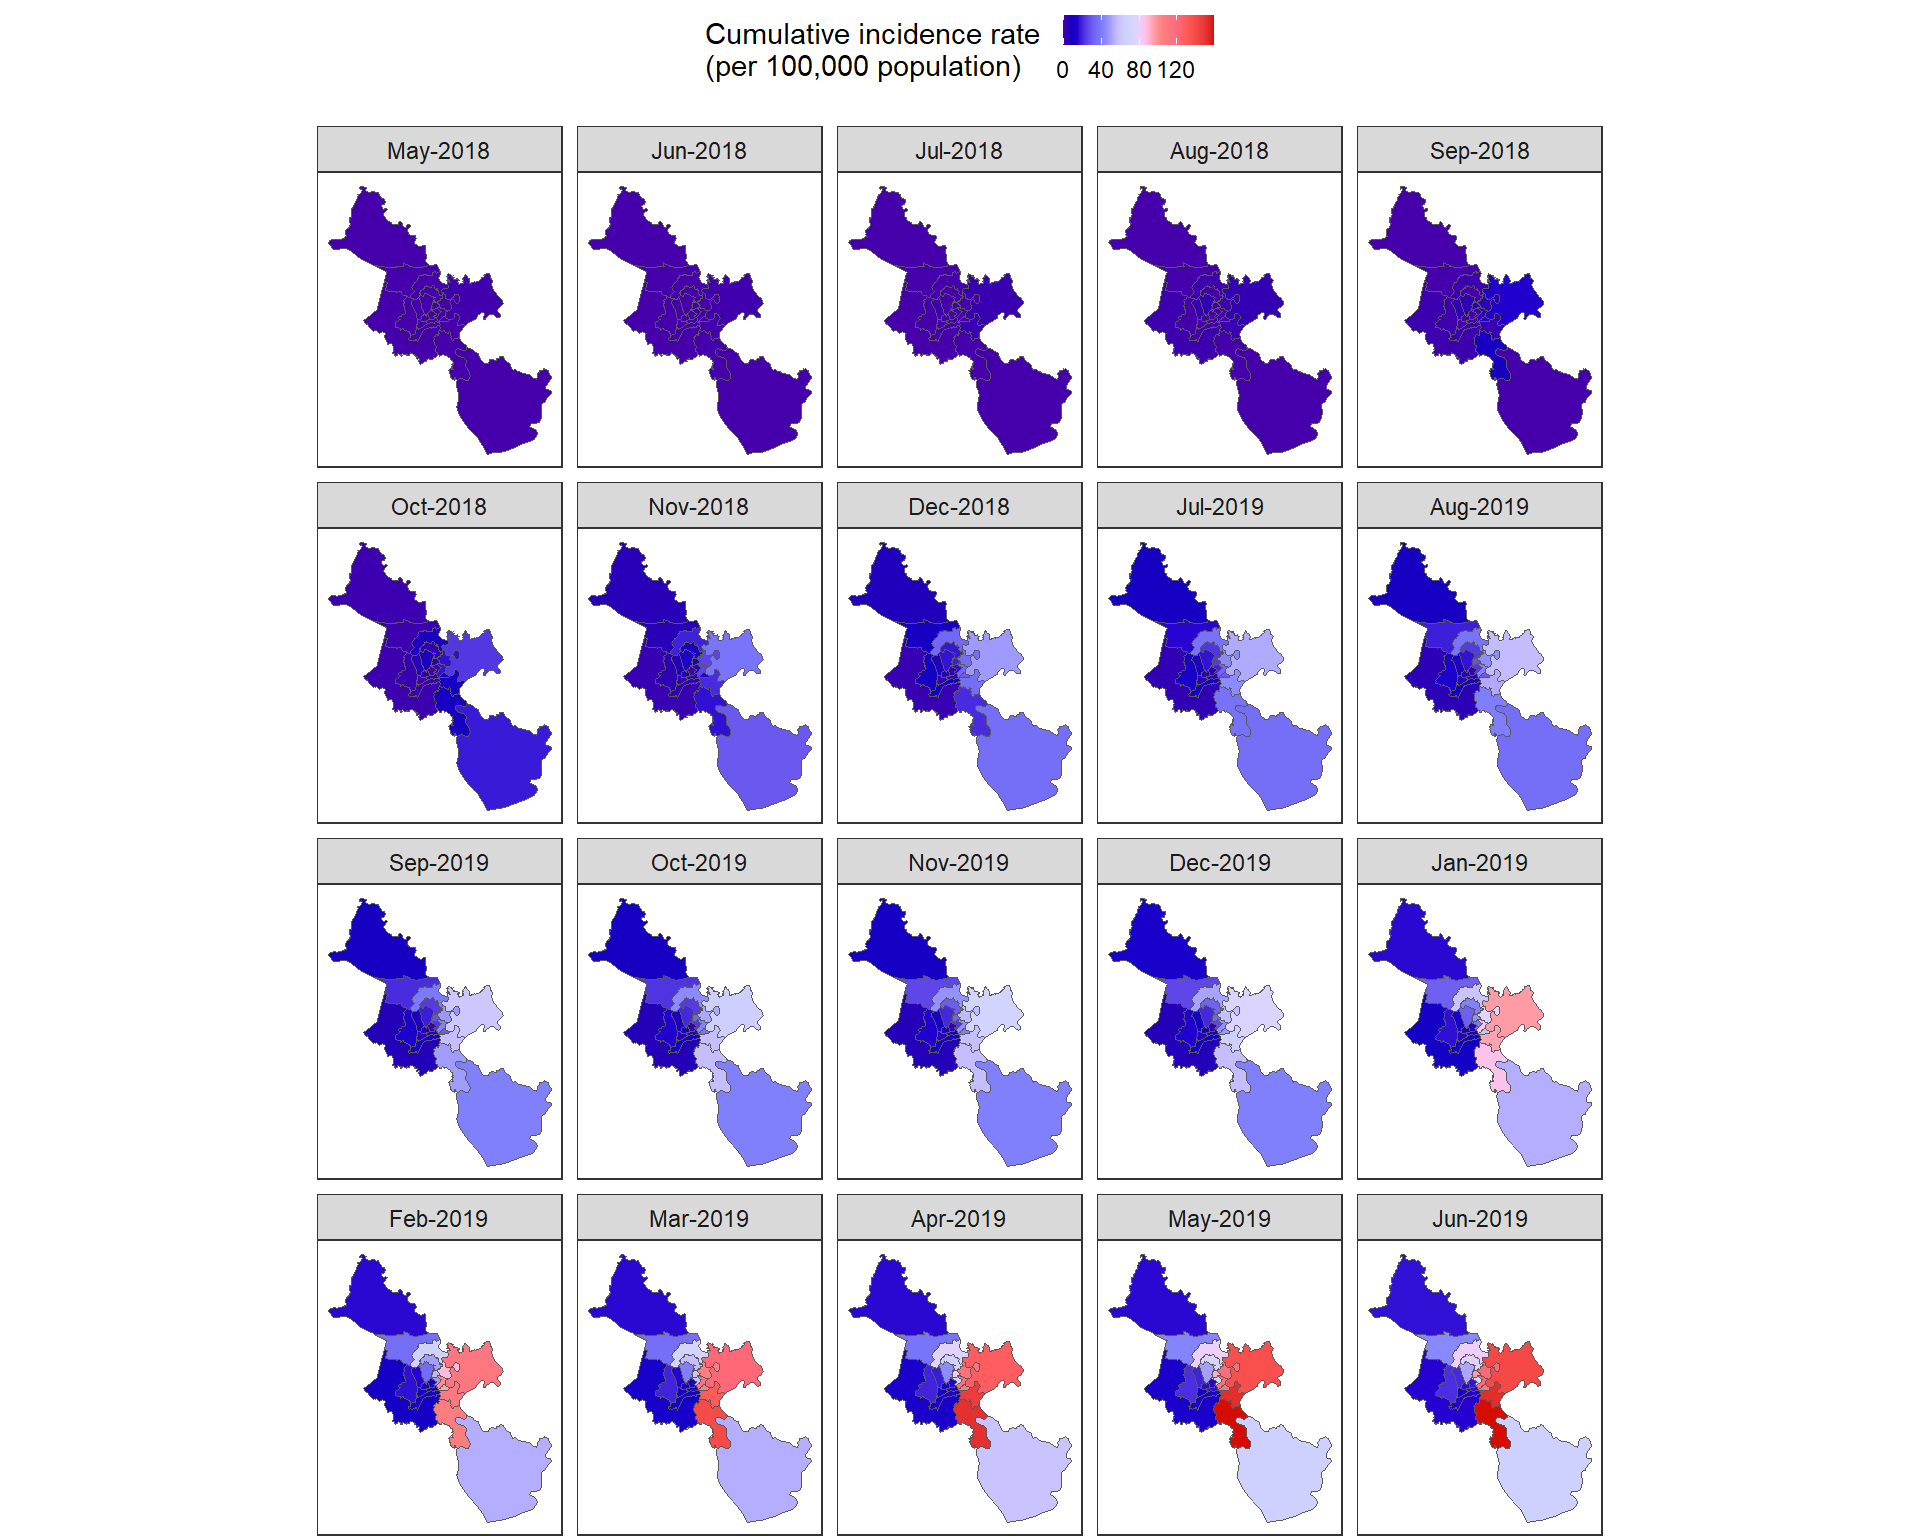
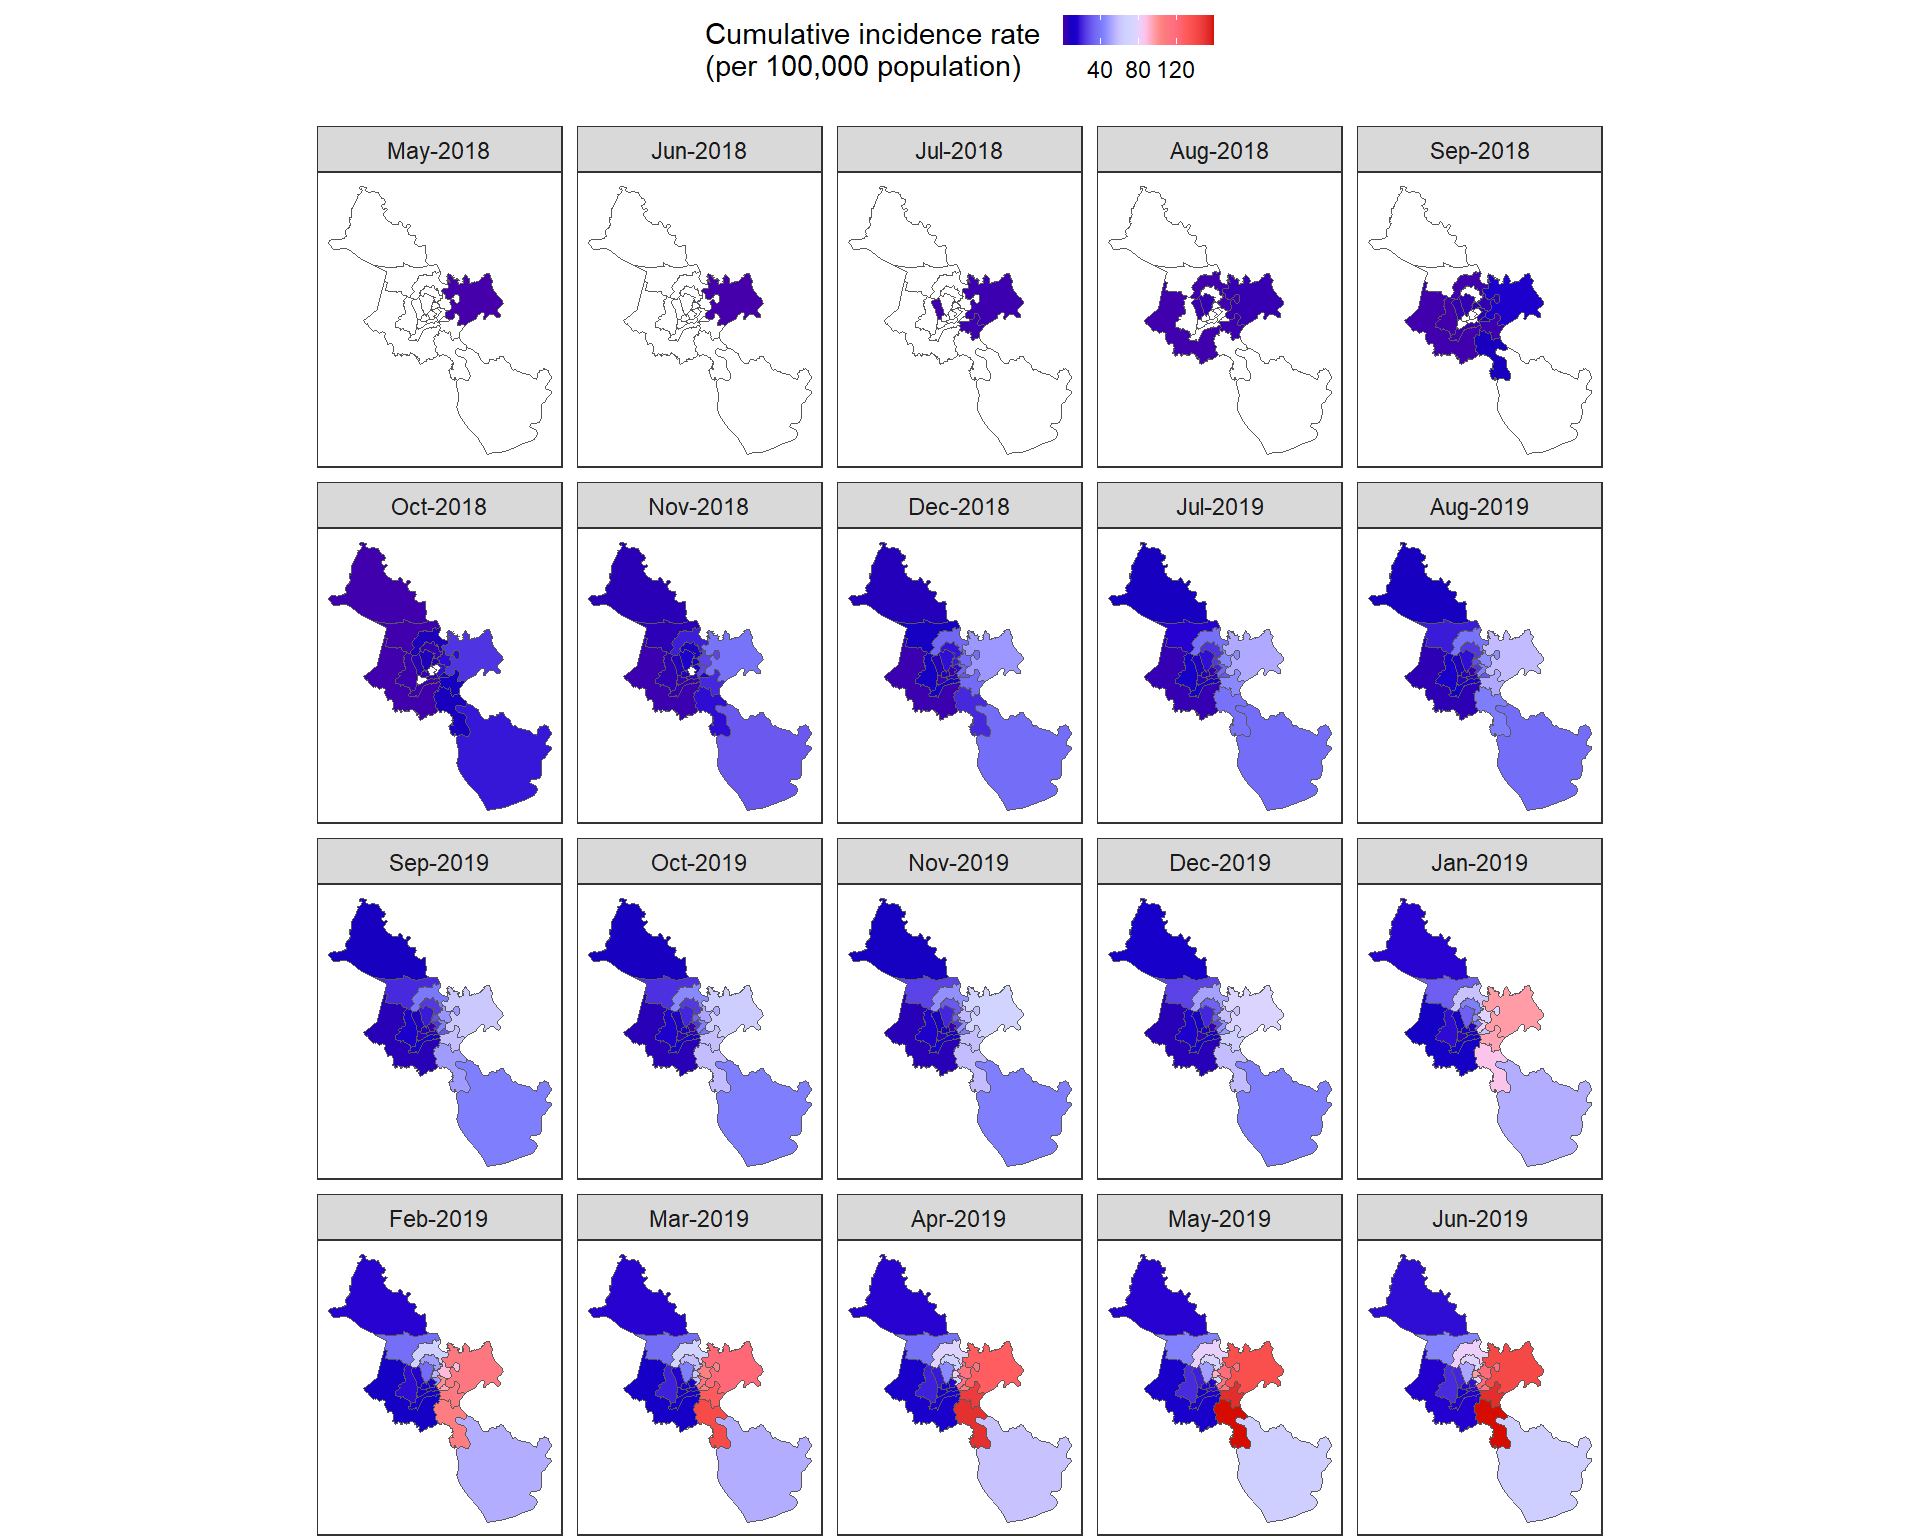
add 18-19 outbreak

diff --git a/index.html b/index.html
@@ -1136,36 +1136,40 @@ Note
 <span id="cb15-29"><a href="#cb15-29" aria-hidden="true" tabindex="-1"></a></span>
 <span id="cb15-30"><a href="#cb15-30" aria-hidden="true" tabindex="-1"></a>df_plot2 <span class="sc">%&gt;%</span> </span>
 <span id="cb15-31"><a href="#cb15-31" aria-hidden="true" tabindex="-1"></a>  <span class="fu">left_join</span>(.,hcm_pop_19, <span class="at">by =</span> <span class="fu">join_by</span>(district)) <span class="sc">%&gt;%</span> </span>
-<span id="cb15-32"><a href="#cb15-32" aria-hidden="true" tabindex="-1"></a>  <span class="fu">mutate</span>(<span class="at">cuminc =</span> cumn<span class="sc">/</span>pop<span class="sc">*</span><span class="dv">100000</span>) <span class="sc">%&gt;%</span> </span>
-<span id="cb15-33"><a href="#cb15-33" aria-hidden="true" tabindex="-1"></a>  <span class="fu">ungroup</span>() <span class="sc">%&gt;%</span> </span>
-<span id="cb15-34"><a href="#cb15-34" aria-hidden="true" tabindex="-1"></a>  <span class="fu">group_by</span>(onset_month) <span class="sc">%&gt;%</span> </span>
-<span id="cb15-35"><a href="#cb15-35" aria-hidden="true" tabindex="-1"></a>  <span class="fu">group_modify</span>(<span class="sc">~</span>.x <span class="sc">%&gt;%</span></span>
-<span id="cb15-36"><a href="#cb15-36" aria-hidden="true" tabindex="-1"></a>                 <span class="fu">left_join</span>(qhtp, ., <span class="at">by =</span> <span class="fu">join_by</span>(varname_2 <span class="sc">==</span> district))) <span class="sc">%&gt;%</span> </span>
-<span id="cb15-37"><a href="#cb15-37" aria-hidden="true" tabindex="-1"></a>  <span class="fu">ggplot</span>() <span class="sc">+</span></span>
-<span id="cb15-38"><a href="#cb15-38" aria-hidden="true" tabindex="-1"></a>  <span class="fu">geom_sf</span>(<span class="fu">aes</span>(<span class="at">fill =</span> cuminc,<span class="at">geometry =</span> geom)) <span class="sc">+</span></span>
-<span id="cb15-39"><a href="#cb15-39" aria-hidden="true" tabindex="-1"></a>  <span class="fu">scale_fill_gsea</span>(</span>
-<span id="cb15-40"><a href="#cb15-40" aria-hidden="true" tabindex="-1"></a>    <span class="co"># rescaler = function(x, to = c(0, 1), from = NULL) {</span></span>
-<span id="cb15-41"><a href="#cb15-41" aria-hidden="true" tabindex="-1"></a>    <span class="co">#   scales::rescale(x^0.5)</span></span>
-<span id="cb15-42"><a href="#cb15-42" aria-hidden="true" tabindex="-1"></a>    <span class="co"># },</span></span>
-<span id="cb15-43"><a href="#cb15-43" aria-hidden="true" tabindex="-1"></a>    <span class="co"># na.value = "white",</span></span>
-<span id="cb15-44"><a href="#cb15-44" aria-hidden="true" tabindex="-1"></a>    <span class="co"># breaks = c(10, 30, 50, 70, 90)</span></span>
-<span id="cb15-45"><a href="#cb15-45" aria-hidden="true" tabindex="-1"></a>  ) <span class="sc">+</span></span>
-<span id="cb15-46"><a href="#cb15-46" aria-hidden="true" tabindex="-1"></a>  <span class="fu">facet_wrap</span>(<span class="sc">~</span> onset_month, <span class="at">nrow =</span> <span class="dv">4</span>)<span class="sc">+</span></span>
-<span id="cb15-47"><a href="#cb15-47" aria-hidden="true" tabindex="-1"></a>  <span class="fu">labs</span>(<span class="at">fill =</span> <span class="st">"Cumulative incidence rate </span><span class="sc">\n</span><span class="st">(per 100,000 population)"</span>) <span class="sc">+</span></span>
-<span id="cb15-48"><a href="#cb15-48" aria-hidden="true" tabindex="-1"></a>  <span class="fu">theme_bw</span>() <span class="sc">+</span></span>
-<span id="cb15-49"><a href="#cb15-49" aria-hidden="true" tabindex="-1"></a>  <span class="fu">theme</span>(</span>
-<span id="cb15-50"><a href="#cb15-50" aria-hidden="true" tabindex="-1"></a>    <span class="at">legend.position =</span> <span class="st">"top"</span>,</span>
-<span id="cb15-51"><a href="#cb15-51" aria-hidden="true" tabindex="-1"></a>    <span class="at">legend.key.size =</span> <span class="fu">unit</span>(<span class="dv">4</span>, <span class="st">"mm"</span>),</span>
-<span id="cb15-52"><a href="#cb15-52" aria-hidden="true" tabindex="-1"></a>    <span class="at">axis.line =</span> <span class="fu">element_blank</span>(),</span>
-<span id="cb15-53"><a href="#cb15-53" aria-hidden="true" tabindex="-1"></a>    <span class="at">axis.title =</span> <span class="fu">element_blank</span>(),</span>
-<span id="cb15-54"><a href="#cb15-54" aria-hidden="true" tabindex="-1"></a>    <span class="at">axis.text =</span> <span class="fu">element_blank</span>(),</span>
-<span id="cb15-55"><a href="#cb15-55" aria-hidden="true" tabindex="-1"></a>    <span class="at">axis.ticks =</span> <span class="fu">element_blank</span>(),</span>
-<span id="cb15-56"><a href="#cb15-56" aria-hidden="true" tabindex="-1"></a>    <span class="at">panel.grid.minor =</span> <span class="fu">element_blank</span>(),</span>
-<span id="cb15-57"><a href="#cb15-57" aria-hidden="true" tabindex="-1"></a>    <span class="at">panel.grid.major =</span> <span class="fu">element_blank</span>(),</span>
-<span id="cb15-58"><a href="#cb15-58" aria-hidden="true" tabindex="-1"></a>    <span class="at">plot.margin =</span> <span class="fu">margin</span>(<span class="dv">0</span>, <span class="dv">0</span>, <span class="dv">0</span>, <span class="dv">0</span>),</span>
-<span id="cb15-59"><a href="#cb15-59" aria-hidden="true" tabindex="-1"></a>    <span class="at">axis.ticks.length =</span> <span class="fu">unit</span>(<span class="dv">0</span>, <span class="st">"pt"</span>),</span>
-<span id="cb15-60"><a href="#cb15-60" aria-hidden="true" tabindex="-1"></a>    <span class="at">plot.tag =</span> <span class="fu">element_text</span>(<span class="at">face =</span> <span class="st">"bold"</span>, <span class="at">size =</span> <span class="dv">14</span>)</span>
-<span id="cb15-61"><a href="#cb15-61" aria-hidden="true" tabindex="-1"></a>  )</span></code><button title="Copy to Clipboard" class="code-copy-button"><i class="bi"></i></button></pre></div>
+<span id="cb15-32"><a href="#cb15-32" aria-hidden="true" tabindex="-1"></a>  <span class="fu">mutate</span>(<span class="at">cuminc =</span> cumn<span class="sc">/</span>pop<span class="sc">*</span><span class="dv">100000</span>,</span>
+<span id="cb15-33"><a href="#cb15-33" aria-hidden="true" tabindex="-1"></a>         <span class="at">cuminc =</span> <span class="fu">case_when</span>(</span>
+<span id="cb15-34"><a href="#cb15-34" aria-hidden="true" tabindex="-1"></a>           cuminc <span class="sc">==</span> <span class="dv">0</span> <span class="sc">~</span> <span class="cn">NA</span>,</span>
+<span id="cb15-35"><a href="#cb15-35" aria-hidden="true" tabindex="-1"></a>           cuminc <span class="sc">!=</span> <span class="dv">0</span> <span class="sc">~</span> cuminc</span>
+<span id="cb15-36"><a href="#cb15-36" aria-hidden="true" tabindex="-1"></a>         )) <span class="sc">%&gt;%</span> </span>
+<span id="cb15-37"><a href="#cb15-37" aria-hidden="true" tabindex="-1"></a>  <span class="fu">ungroup</span>() <span class="sc">%&gt;%</span> </span>
+<span id="cb15-38"><a href="#cb15-38" aria-hidden="true" tabindex="-1"></a>  <span class="fu">group_by</span>(onset_month) <span class="sc">%&gt;%</span> </span>
+<span id="cb15-39"><a href="#cb15-39" aria-hidden="true" tabindex="-1"></a>  <span class="fu">group_modify</span>(<span class="sc">~</span>.x <span class="sc">%&gt;%</span></span>
+<span id="cb15-40"><a href="#cb15-40" aria-hidden="true" tabindex="-1"></a>                 <span class="fu">left_join</span>(qhtp, ., <span class="at">by =</span> <span class="fu">join_by</span>(varname_2 <span class="sc">==</span> district))) <span class="sc">%&gt;%</span> </span>
+<span id="cb15-41"><a href="#cb15-41" aria-hidden="true" tabindex="-1"></a>  <span class="fu">ggplot</span>() <span class="sc">+</span></span>
+<span id="cb15-42"><a href="#cb15-42" aria-hidden="true" tabindex="-1"></a>  <span class="fu">geom_sf</span>(<span class="fu">aes</span>(<span class="at">fill =</span> cuminc,<span class="at">geometry =</span> geom)) <span class="sc">+</span></span>
+<span id="cb15-43"><a href="#cb15-43" aria-hidden="true" tabindex="-1"></a>  <span class="fu">scale_fill_gsea</span>(</span>
+<span id="cb15-44"><a href="#cb15-44" aria-hidden="true" tabindex="-1"></a>    <span class="co"># rescaler = function(x, to = c(0, 1), from = NULL) {</span></span>
+<span id="cb15-45"><a href="#cb15-45" aria-hidden="true" tabindex="-1"></a>    <span class="co">#   scales::rescale(x^0.5)</span></span>
+<span id="cb15-46"><a href="#cb15-46" aria-hidden="true" tabindex="-1"></a>    <span class="co"># },</span></span>
+<span id="cb15-47"><a href="#cb15-47" aria-hidden="true" tabindex="-1"></a>    <span class="at">na.value =</span> <span class="st">"white"</span>,</span>
+<span id="cb15-48"><a href="#cb15-48" aria-hidden="true" tabindex="-1"></a>    <span class="co"># breaks = c(10, 30, 50, 70, 90)</span></span>
+<span id="cb15-49"><a href="#cb15-49" aria-hidden="true" tabindex="-1"></a>  ) <span class="sc">+</span></span>
+<span id="cb15-50"><a href="#cb15-50" aria-hidden="true" tabindex="-1"></a>  <span class="fu">facet_wrap</span>(<span class="sc">~</span> onset_month, <span class="at">nrow =</span> <span class="dv">4</span>)<span class="sc">+</span></span>
+<span id="cb15-51"><a href="#cb15-51" aria-hidden="true" tabindex="-1"></a>  <span class="fu">labs</span>(<span class="at">fill =</span> <span class="st">"Cumulative incidence rate </span><span class="sc">\n</span><span class="st">(per 100,000 population)"</span>) <span class="sc">+</span></span>
+<span id="cb15-52"><a href="#cb15-52" aria-hidden="true" tabindex="-1"></a>  <span class="fu">theme_bw</span>() <span class="sc">+</span></span>
+<span id="cb15-53"><a href="#cb15-53" aria-hidden="true" tabindex="-1"></a>  <span class="fu">theme</span>(</span>
+<span id="cb15-54"><a href="#cb15-54" aria-hidden="true" tabindex="-1"></a>    <span class="at">legend.position =</span> <span class="st">"top"</span>,</span>
+<span id="cb15-55"><a href="#cb15-55" aria-hidden="true" tabindex="-1"></a>    <span class="at">legend.key.size =</span> <span class="fu">unit</span>(<span class="dv">4</span>, <span class="st">"mm"</span>),</span>
+<span id="cb15-56"><a href="#cb15-56" aria-hidden="true" tabindex="-1"></a>    <span class="at">axis.line =</span> <span class="fu">element_blank</span>(),</span>
+<span id="cb15-57"><a href="#cb15-57" aria-hidden="true" tabindex="-1"></a>    <span class="at">axis.title =</span> <span class="fu">element_blank</span>(),</span>
+<span id="cb15-58"><a href="#cb15-58" aria-hidden="true" tabindex="-1"></a>    <span class="at">axis.text =</span> <span class="fu">element_blank</span>(),</span>
+<span id="cb15-59"><a href="#cb15-59" aria-hidden="true" tabindex="-1"></a>    <span class="at">axis.ticks =</span> <span class="fu">element_blank</span>(),</span>
+<span id="cb15-60"><a href="#cb15-60" aria-hidden="true" tabindex="-1"></a>    <span class="at">panel.grid.minor =</span> <span class="fu">element_blank</span>(),</span>
+<span id="cb15-61"><a href="#cb15-61" aria-hidden="true" tabindex="-1"></a>    <span class="at">panel.grid.major =</span> <span class="fu">element_blank</span>(),</span>
+<span id="cb15-62"><a href="#cb15-62" aria-hidden="true" tabindex="-1"></a>    <span class="at">plot.margin =</span> <span class="fu">margin</span>(<span class="dv">0</span>, <span class="dv">0</span>, <span class="dv">0</span>, <span class="dv">0</span>),</span>
+<span id="cb15-63"><a href="#cb15-63" aria-hidden="true" tabindex="-1"></a>    <span class="at">axis.ticks.length =</span> <span class="fu">unit</span>(<span class="dv">0</span>, <span class="st">"pt"</span>),</span>
+<span id="cb15-64"><a href="#cb15-64" aria-hidden="true" tabindex="-1"></a>    <span class="at">plot.tag =</span> <span class="fu">element_text</span>(<span class="at">face =</span> <span class="st">"bold"</span>, <span class="at">size =</span> <span class="dv">14</span>)</span>
+<span id="cb15-65"><a href="#cb15-65" aria-hidden="true" tabindex="-1"></a>  )</span></code><button title="Copy to Clipboard" class="code-copy-button"><i class="bi"></i></button></pre></div>
 </details>
 <div class="cell-output-display">
 <div>
